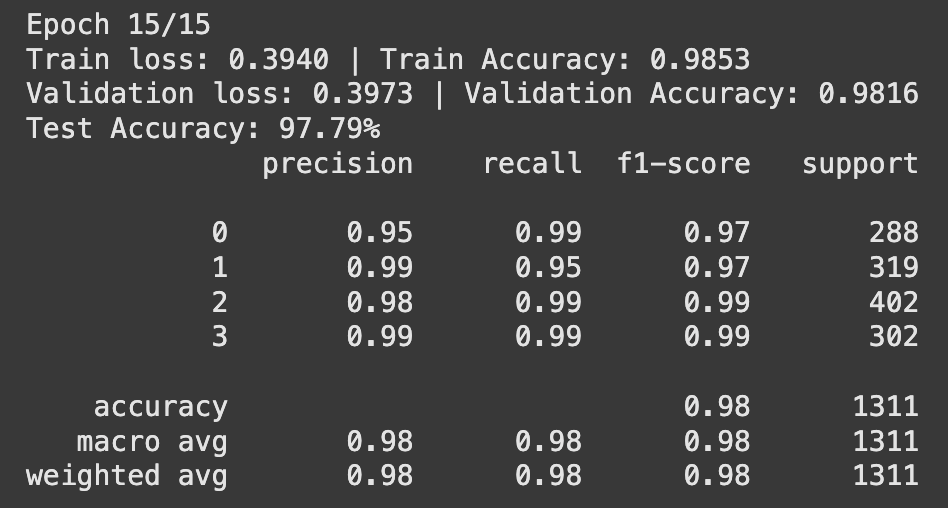
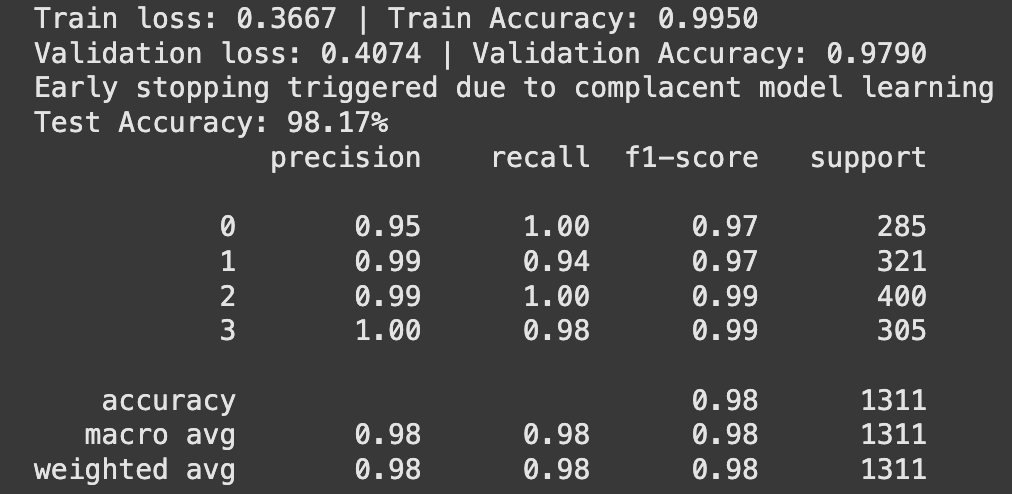
setting up fastAPI

diff --git a/api/core/rag.py b/api/core/rag.py
@@ -1,0 +1,23 @@
+#langchain pipeline + vectorstore
+
+from langchain.chains import RetrievalQA
+from langchain.embeddings import HuggingFaceEmbeddings
+from langchain.vectorstores import FAISS
+from langchain.llms import HuggingFacePipeline
+from transformers import AutoTokenizer, AutoModelForCausalLM, pipeline
+
+# Load vectorstore (already populated with medical docs)
+db = FAISS.load_local("path_to_vectorstore", HuggingFaceEmbeddings())
+
+# Load LLM
+tokenizer = AutoTokenizer.from_pretrained("mistralai/Mistral-7B-Instruct-v0.2")
+model = AutoModelForCausalLM.from_pretrained("...", torch_dtype=torch.float16)
+pipe = pipeline("text-generation", model=model, tokenizer=tokenizer)
+llm = HuggingFacePipeline(pipeline=pipe)
+
+qa = RetrievalQA.from_chain_type(llm=llm, retriever=db.as_retriever())
+
+def answer_question(question: str, tumor_type: str):
+    query = f"{tumor_type} tumor: {question}"
+    result = qa.run(query)
+    return result, ["source1", "source2"]  # Modify with actual sources

diff --git a/api/routes/predict.py b/api/routes/predict.py
@@ -1,0 +1,26 @@
+# image upload + model inference
+
+from fastapi import APIRouter, UploadFile, File
+from PIL import Image
+from io import BytesIO
+from api.core.model import predict
+from api.core.redis import cache_prediction, store_prediction
+
+router = APIRouter()
+
+@router.post("/predict")
+async def predict_image(file: UploadFile = File(...)):
+    contents = await file.read()
+    cached = cache_prediction(contents)
+    if cached:
+        return {"cached": True, **cached}
+    
+    image = Image.open(BytesIO(contents)).convert("RGB")
+    pred_class, probs = predict(image)
+
+    result = {
+        "predicted_class": pred_class,
+        "probabilities": probs
+    }
+    store_prediction(contents, result)
+    return {"cached": False, **result}

diff --git a/api/core/model.py b/api/core/model.py
@@ -1,0 +1,17 @@
+#load model and predict
+
+import torch
+from PIL import Image
+
+from api.utils.image import preprocess
+
+model = torch.load("path_to_your_trained_model.pt", map_location="cpu")
+model.eval()
+
+def predict(image: Image.Image):
+    input_tensor = preprocess(image)
+    with torch.no_grad():
+        outputs = model(input_tensor)
+        probs = torch.softmax(outputs, dim=1)
+        pred = torch.argmax(probs, dim=1)
+    return pred.item(), probs.squeeze().tolist()

diff --git a/api/core/redis.py b/api/core/redis.py
@@ -1,0 +1,18 @@
+#redis + caching logic
+
+import redis
+import hashlib
+import pickle
+
+r = redis.Redis(host='localhost', port=6379, db=0)
+
+def cache_prediction(image_bytes):
+    key = hashlib.md5(image_bytes).hexdigest()
+    cached = r.get(key)
+    if cached:
+        return pickle.loads(cached)
+    return None
+
+def store_prediction(image_bytes, result):
+    key = hashlib.md5(image_bytes).hexdigest()
+    r.set(key, pickle.dumps(result), ex=3600)  # expire in 1 hour

diff --git a/api/routes/chat.py b/api/routes/chat.py
@@ -1,0 +1,19 @@
+#llm q&a response
+
+from fastapi import APIRouter
+from pydantic import BaseModel
+from api.core.rag import answer_question
+
+router = APIRouter()
+
+class ChatInput(BaseModel):
+    question: str
+    tumor_type: str
+
+@router.post("/chat")
+async def chat_with_rag(input: ChatInput):
+    answer, sources = answer_question(input.question, input.tumor_type)
+    return {
+        "answer": answer,
+        "sources": sources
+    }

diff --git a/api/main.py b/api/main.py
@@ -1,0 +1,15 @@
+from fastapi import FastAPI
+from fastapi.middleware.cors import CORSMiddleware
+from api.routes import predict, chat
+
+app = FastAPI()
+
+app.add_middleware(
+    CORSMiddleware,
+    allow_origins=["*"],
+    allow_methods=["*"],
+    allow_headers=["*"],
+)
+
+app.include_router(predict.router)
+app.include_router(chat.router)

diff --git a/api/utils/image.py b/api/utils/image.py
@@ -1,0 +1,13 @@
+# preprocess images
+from torchvision import transforms
+
+def preprocess(image):
+    transform = transforms.Compose([
+        transforms.Resize((224, 224)),
+        transforms.ToTensor()
+        # normalize
+    ])
+
+    input_tensor = transform(image).unsqueeze(0)  # Add batch dimension
+
+    return input_tensor

diff --git a/README.md b/README.md
@@ -50,6 +50,7 @@ After detection, the user can interact with a medical chatbot to ask follow-up q
 ```
 
 ## Key Tools and Technologies (update with scraper technology)
+## combine model training and application/deployement into this section
 
 ### Model
 - **PyTorch**: Deep learning framework used for model implementation and training.
@@ -117,6 +118,8 @@ The application is built using FastAPI, which provides a modern web interface fo
 
 Accuracy and Loss history:
 ![Accuracy & Loss](vit/eda/images/training_graph.png)
+
+F1 Score:
 ![F1 Score](vit/eda/images/f1_score.png)
 
 Model Summary: 
@@ -124,9 +127,9 @@ Model Summary:
 
 Final Model Performance:
 ```
-Train Accuracy: 98.53%
-Validation Accuracy: 98.16%
-Test Accuracy: 97.79%
+Train Accuracy: 99.50%
+Validation Accuracy: 97.90%
+Test Accuracy: 98.17%
 ```
 
 ## Installation and Usage (update when app is made)
